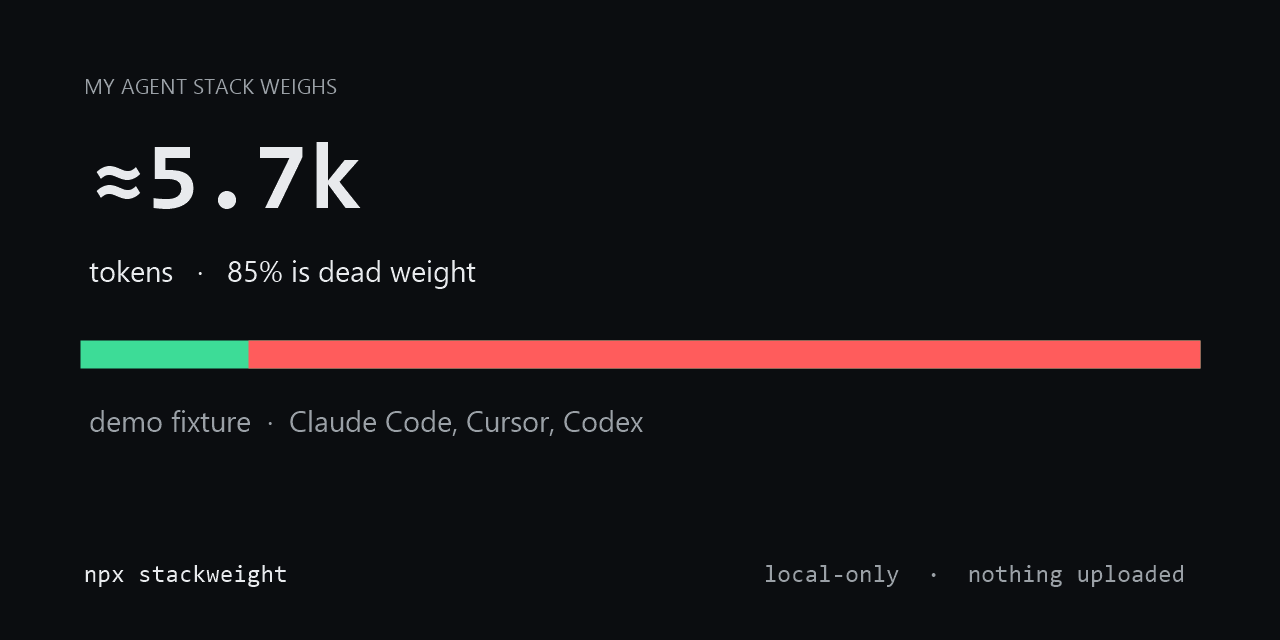
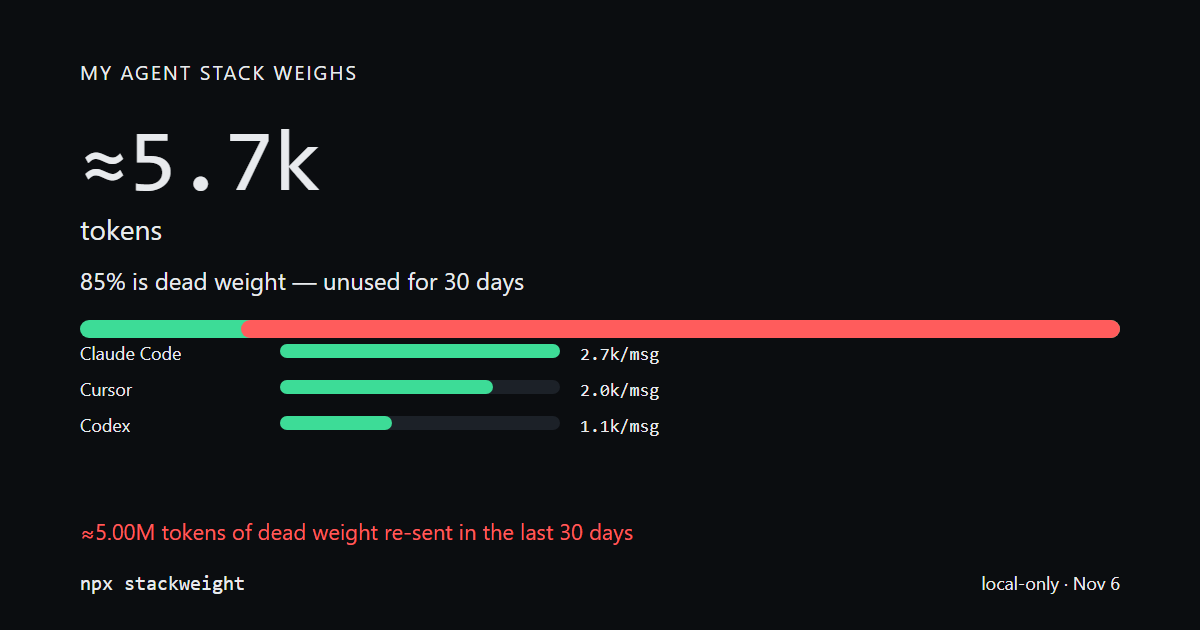
Quote the test exclude so POSIX CI runs the real suite.

diff --git a/BLOCKERS.md b/BLOCKERS.md
@@ -1,9 +1,17 @@
 # Blockers
 
+## T23
+
+T23 was not dropped. Its three files (`src/apply/manifest.ts`, `src/apply/claude-config.ts`, `src/apply/prune.ts`) landed inside commit `f8a9557` ("T24: restore and round trip") instead of their own commit. The prune acceptance test was added later in `1202a40`. The one-task-one-commit rule was broken. History was not rewritten, because those commits are already on `origin/main`.
+
 ## T31
 
-The workflow file is in the repo. This machine has no git remote, so the six CI jobs (3 OS × Node 22 and 24) have not been run.
+The test script quoted `tests/e2e/**` so a POSIX shell cannot expand the glob and skip the real tests. CI now builds before `npm test`. The workflow is on GitHub; confirm the six jobs at https://github.com/zaminaa/StackWeight/actions.
 
 ## T32
 
-Dogfood on the real machine is still for the owner. The definition-of-done checklist in the plan is not signed off.
+Dogfood on the real machine is still for the owner, about 20 minutes. Every number published in this repo, including `docs/card.png`, comes from the demo fixture. There is no real receipt yet.
+
+## Demo GIF
+
+`demo/stackweight.gif` is still a 1×1 placeholder. VHS is not installed on this machine, so `demo/demo.tape` has not been recorded.

diff --git a/README.md b/README.md
@@ -10,7 +10,7 @@ No config. No account. No network calls. Nothing leaves your machine.
 
 ![StackWeight receipt](docs/card.png)
 
-The card above is the demo fixture (≈5.7k tokens, 85% dead). It never shows skill names or paths. An animated GIF can be recorded later from `demo/demo.tape`.
+The card is the real 1200×630 share card, rendered from the demo fixture. It is not a scan of a real machine, and it never shows skill names or paths. The animated GIF is recorded from `demo/demo.tape`.
 
 ## Why
 
@@ -74,3 +74,5 @@ npm pack stackweight && npm install -g ./stackweight-*.tgz   # on a connected ma
 ## License
 
 MIT
+
+Rewind: `npx stackweight restore` undoes the last prune, exactly. One item comes back with `npx stackweight restore --item <name>`. Nothing was deleted.
